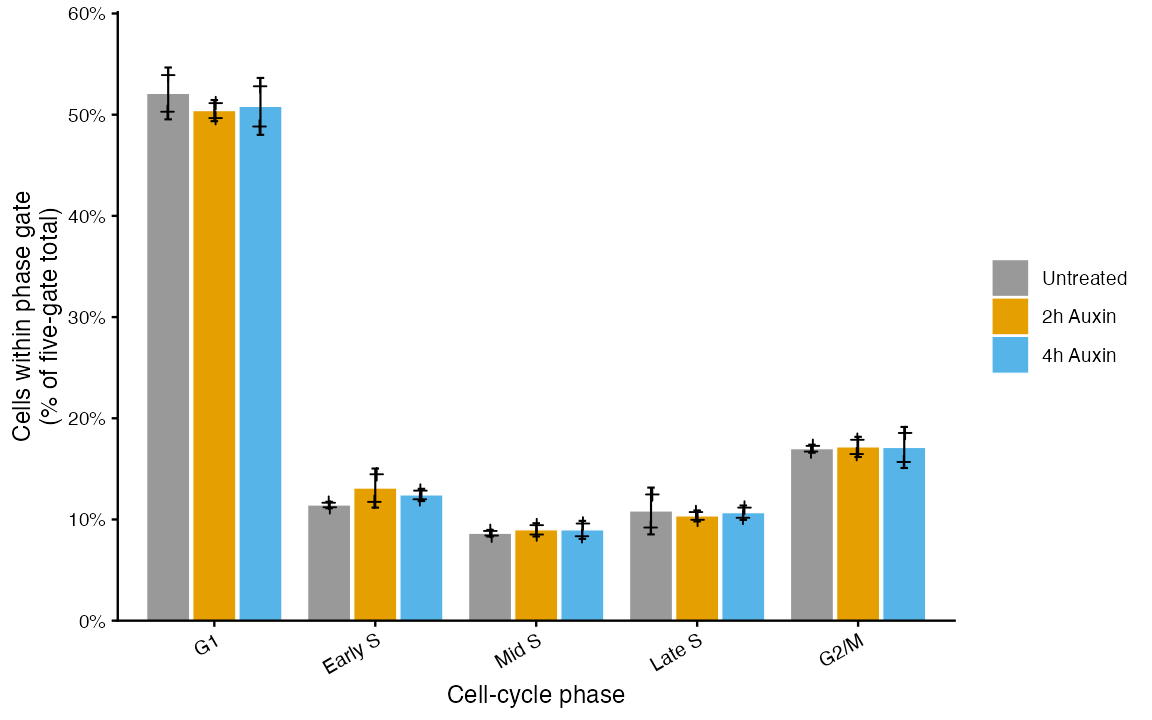
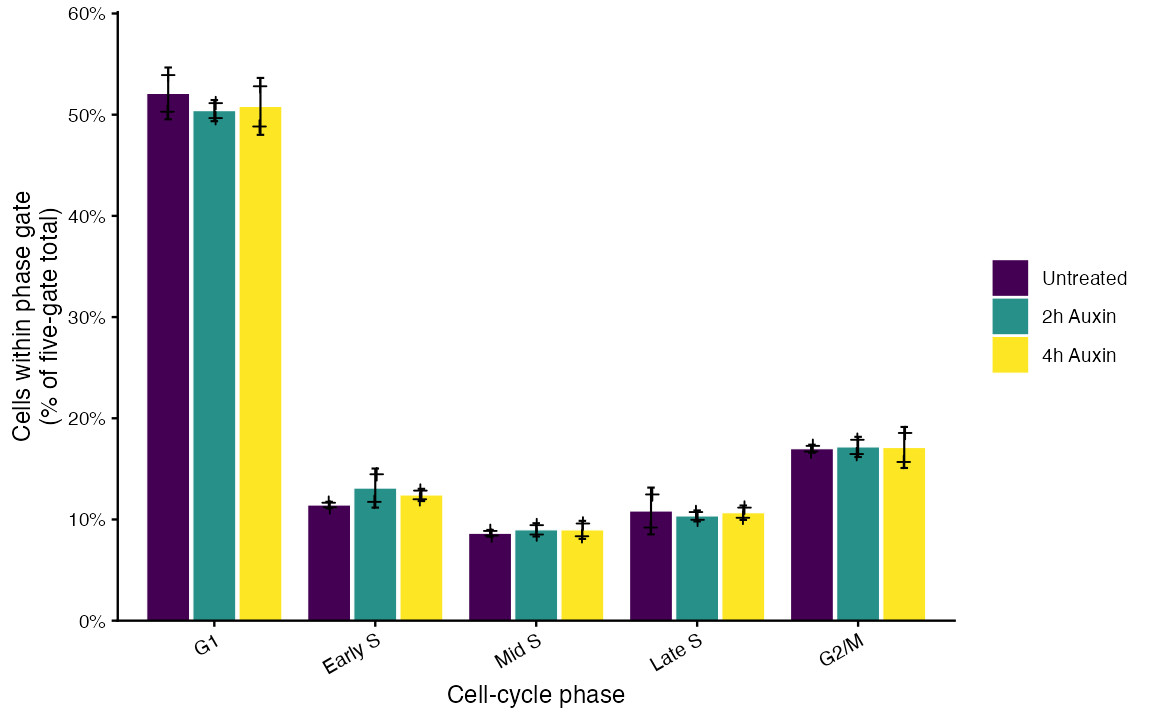
Use viridis as the default condition palette

Changed region(s): [[0.125, 0.1222, 0.8125, 0.8861], [0.8438, 0.3361, 0.9062, 0.5194]]

diff --git a/docs/REPORTS.md b/docs/REPORTS.md
@@ -48,6 +48,10 @@ Template appearance parameters default to `null`. Null values are ignored, so
 package defaults remain authoritative. An optional appearance YAML can provide
 report-specific overrides without changing the analysis RDS.
 
+Condition colors use a dynamically sized viridis palette by default. The
+package determines the number and ordering of conditions from the analysis;
+templates never hard-code sample labels.
+
 ```yaml
 condition_palette: "colorblind"
 y_limits: [600, 30000]

diff --git a/NEWS.md b/NEWS.md
@@ -17,3 +17,4 @@
   mappings that never require templates to know sample labels in advance.
 - Added focused complete, pseudocolor, quantitation, cell-cycle, and diagnostic
   Quarto templates with Plotgardener multipanel assembly.
+- Changed the automatic condition-color palette from pink to viridis.
